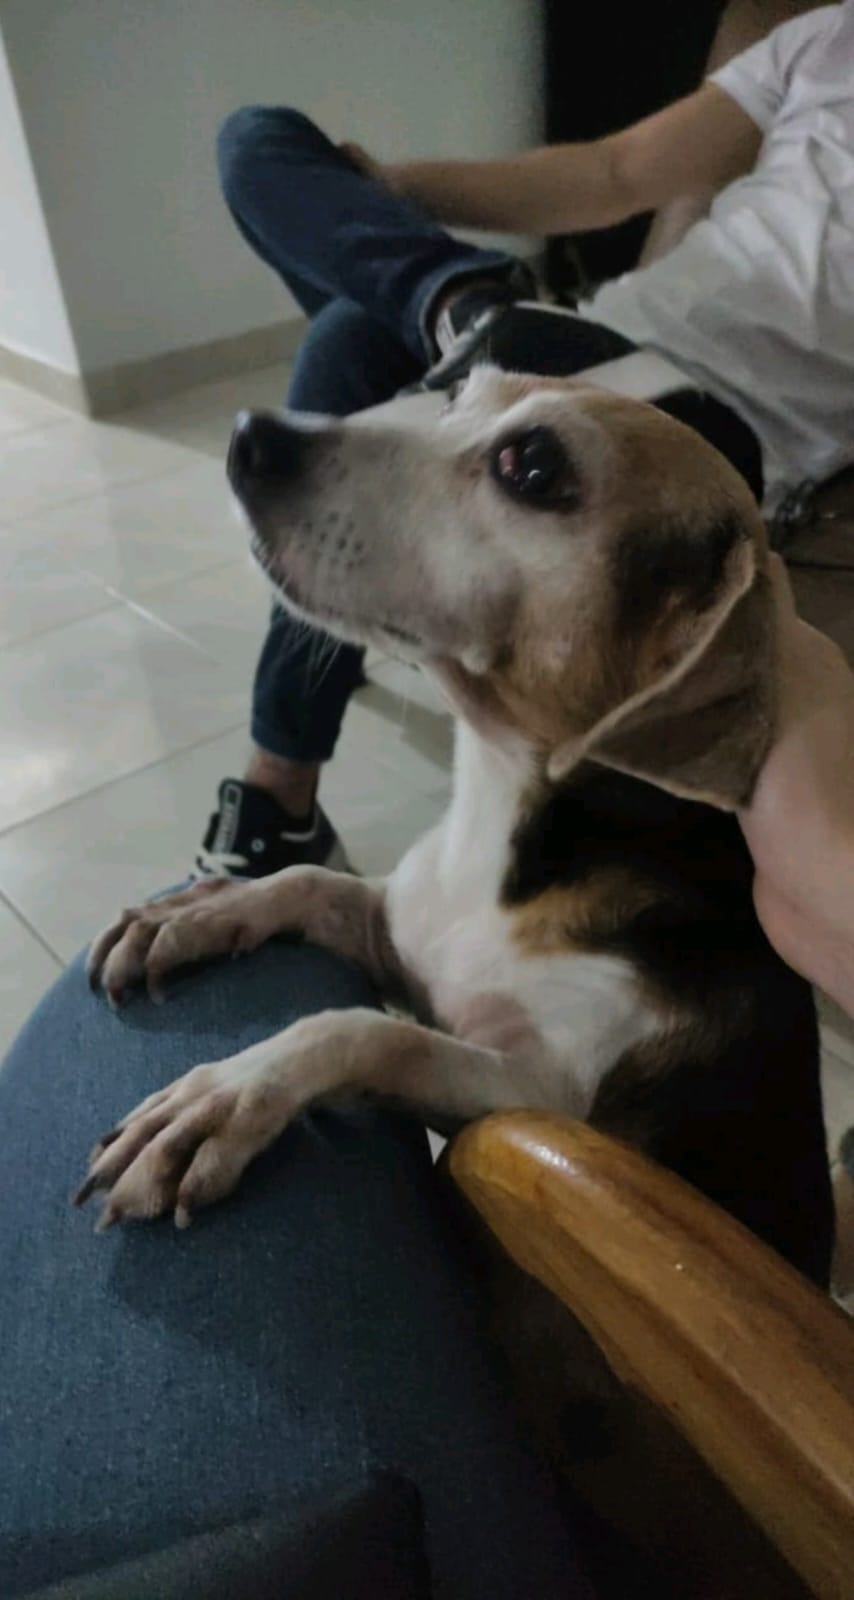
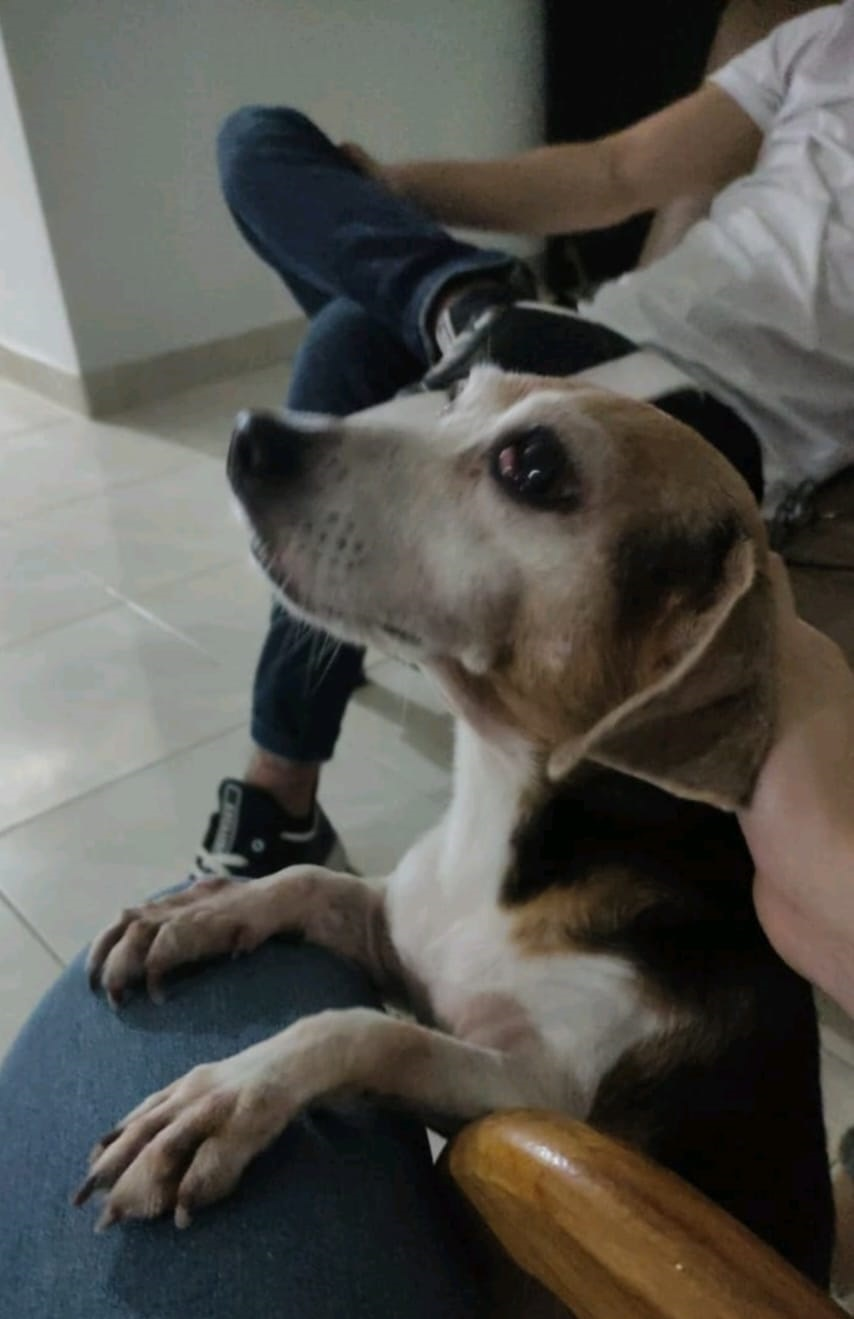
thrid_week_behins

diff --git a/html y css/css/task_1/port_styles.css b/html y css/css/task_1/port_styles.css
@@ -65,9 +65,8 @@ p {
     justify-content: center;
 }
 .bar {
-    width: 100%;
+    width: auto;
     height: 60px;
-    max-width: 1200px;
     margin: 0;
     display: flex;
     align-items: center;
@@ -120,15 +119,16 @@ section .myself:active {
 
 #projects{
     height: 20%;
-    background-color: #c96100;
-
     box-shadow: 0px 0px 20px rgba(0, 0, 0, 0.5);
     display: grid;
     grid-template-areas:'projects projects projects'
                         'tituprof tituprof titupre'
                         'professional professional personal';
     grid-template-rows: 12% 12% auto;
+    grid-template-columns: 30% 30% 40%;
     gap: .001rem;
+    justify-content: space-around;
+    margin: 0 10%;
     /* flex-wrap: wrap; */
 }
 
@@ -136,37 +136,44 @@ section .myself:active {
     grid-area: projects;
     color: #fff6c0;
     font-size: 20px;
-    position: relative;
-    background-image: url(../image/paisaje.jpg);
+    text-align: center;
+    background-image: url(../image/paisaje\ amarillo.jpg);
     background-position: center;
     background-size: cover;
 }
 
-.tituprof {
+.tituporf {
+    background-color: #c96100;
     grid-area: tituprof;
     text-align: center;
+    color: #fff6c0;
 }
 
 .professional{
-    background-color: rgb(0, 0, 0);
+    background-color: rgba(235, 167, 21, 0.11);
     grid-area: professional;
     display: flex;
     padding: 0 .05rem;
 }
 
 .studies{
-    background-color: rgba(255, 115, 0, 0.274);
+    background-color: rgba(235, 167, 21, 0.11);
+    border-right: 3px solid #ffffffff ;
 }
 
 .titupre{
-    background-color: rgb(21, 46, 46);
+    background-color: #c96100;
     grid-area: titupre;
     text-align: center;
+    border-left: 3px solid #ffffffff;
+    color: #fff6c0;
 }
 
 .personal{
-    background-color: rgb(235, 167, 21);
+    background-color: rgba(235, 167, 21, 0.11);
     grid-area: personal;
+    border-left: 3px solid #ffffffff;
+
 }
 
 #contact{
@@ -180,5 +187,23 @@ section .myself:active {
     display: flex;
     align-items: center;
     justify-content: space-between;
+}
+
+@media (max-width: 640px) {
+    #projects {
+        margin: 0;
+    } 
+    
+    .professional{
+        display: flex;
+        flex-direction: column;
+    }
+    .studies {
+    background-color: rgba(235, 167, 21, 0.11);
+    border-bottom: 3px solid #ffffffff ;
+    border-right: none;
+    border-top: 3px solid #ffffffff ;
+    
+}
 }
 /* https://www.youtube.com/watch?v=GdrbE-s5DgQ&t=484s */

diff --git a/html y css/html/task_1/contact_me.html b/html y css/html/task_1/contact_me.html
@@ -19,18 +19,18 @@
     
     <main>
         <section id="data">
-            <aside>
-                <p>Lorem ipsum dolor sit amet consectetur adipisicing elit. Non provident, numquam sunt facilis molestiae sed culpa deleniti voluptate explicabo debitis! Natus fugiat aspernatur doloremque sapiente vitae a minima ad blanditiis?</p>
-            </aside>
-            <form class="inputs"> 
-                        <input class="boxes" type="text" placeholder="Enter your name" name="name" required>
-                        <input class="boxes" type="text" placeholder="Enter your lastname" name="lastname" required>
-                        <input class="boxes" type="email" placeholder="Example@email.com" name="email" required>
-                        <input class="boxes" type="number" placeholder="Cellphone" name="number" >
-                        <label class="bd boxes" for="briht">Enter your date of birth</label>
-                        <input class="boxes" type="date" id="briht">
-                        <button class="send" type="submit"><i class="fa-solid fa-cloud-arrow-up"></i></button> 
-            </form>
+                <aside>
+                    <p>Lorem ipsum dolor sit amet consecteturs adipisicing elit. Non provident, numquaxm sunt facilis molestiae sed culpa deleniti voluptate explicabo debitis! Natus fugiat aspernatur doloremque sapiente vitae a minima ad blanditiis?</p>
+                </aside>
+                <form class="inputs"> 
+                            <input class="boxes" tabindex="0" type="text" placeholder="Enter your name" name="name" required>
+                            <input class="boxes" tabindex="0" type="text" placeholder="Enter your lastname" name="lastname" required>
+                            <input class="boxes" tabindex="0" type="email" placeholder="Example@email.com" name="email" required>
+                            <input class="boxes" tabindex="0" type="number" placeholder="Cellphone" name="number" >
+                            <label class="bd boxes" for="briht">Enter your date of birth</label>
+                            <input class="boxes" tabindex="0" type="date" id="briht">
+                            <button class="send" type="submit"><i class="fa-solid fa-cloud-arrow-up"></i></button> 
+                </form>
         </section>
     </main>
 </body>

diff --git a/html y css/html/task_1/pets.html b/html y css/html/task_1/pets.html
@@ -15,37 +15,36 @@
     </header>
 
     <main>
-        <nav>
-            <p>Currently, I do not have any pets, but I have had two.</p>
-        </nav>
-
+        <!-- <figure tabindex="0" id=""> -->
         <section class="img-pets">
-            <figure>
-                <img class="samy" src="../../css/image/Samy.jpg" alt="Samy">
-                <article>Samy (The destroyer)</article>
+            <figure id="sammy" tabindex="0">
+                <img class="pets" src="../../css/image/Samy.jpg" alt="Samy">
+                <article>Sammy (The destroyer)</article>
             </figure>
 
-            <figure>
-                <img class="lola" src="../../css/image/Lola.jpeg" alt="Lola">
+            <figure id="lola">
+                <img class="pets" src="../../css/image/Lola.jpeg" alt="Lola">
                 <article>Lola (The cute - and vacuum cleaner)</article>
             </figure>
 
-            <figure>
-                <img class="mery" src="../../css/image/Mery.jpeg" alt="Mey">
+            <figure id="mery">
+                <img class="pets" src="../../css/image/Mery.jpeg" alt="Mey">
                 <article>Mery (The jealous cat, only lets men touch her)</article>
             </figure>
 
-            <figure>
-                <img class="vacky" src="../../css/image/Vacky.jpeg" alt="Vacky">
-                <article>Vacky (The sleeper.)</article>
+            <figure id="vacky">
+                <img  class="pets" src="../../css/image/Vacky.jpeg" alt="Vacky">
+                <article>Vacky (The empowered car, take your bed and your pillow.)</article>
             </figure>
 
-            <figure>
-                <img class="lulu" src="../../css/image/Lulu.jpeg" alt="Lulu">
+            <figure id="lulu">
+                <img  class="pets" src="../../css/image/Lulu.jpeg" alt="Lulu">
+                <article>Lulu (The sleeper, it's noticeable)</article>
             </figure>
 
-            <figure>
-                <img class="messi" src="../../css/image/Messi.jpeg" alt="Messi">
+            <figure id="messy">
+                <img class="pets" src="../../css/image/Messi.jpeg" alt="Messi">
+                <article>Messi (The lover)</article>
             </figure>
         </section>
 

diff --git a/html y css/css/task_1/cont.css b/html y css/css/task_1/cont.css
@@ -6,6 +6,10 @@
     /* outline: 1px solid red; */
 }
 
+:root{
+--primary-color: rgb(238, 178, 12)
+}
+
 body{
     background-color: rgb(33, 34, 44);
 }
@@ -15,14 +19,6 @@ header{
     background-color: aliceblue;
     align-items: center;
     gap: 3rem;
-}
-
-aside {
-    color: aliceblue;
-    background-color: rgba(0, 0, 0, 0.329);
-    backdrop-filter: blur(4px);
-    padding: 19.5%;
-    border-radius: 10px 0 0 10px;
 }
 
 .video_fondo{
@@ -36,24 +32,32 @@ aside {
     object-fit: cover;
 }
 
+#data {
+    display: grid;
+    grid-template-columns: 1fr 2fr;
+    margin: 5% 25% 0 25%;
+    align-items: stretch;
+
+}
+aside {
+    color: aliceblue;
+    background-color: rgba(0, 0, 0, 0.329);
+    backdrop-filter: blur(4px);
+    padding: 19.5%;
+    border-radius: 10px 0 0 10px;
+    /* width: 70%; */
+}
+
 .inputs{
     /* text-align: center; */
     background-color: antiquewhite;
     border-radius: 0 10px 10px 0;
     display: flex;  
     flex-direction: column;
+    justify-content: center;    
     padding: 8% 0;
+    
 }
-
-#data {
-    display: grid;
-    grid-template-columns: 40% 60%;
-    margin: 5% 25% 0 25%;
-    justify-content: space-between;
-    align-items: center;
-    /* flex-wrap: wrap; */
-}
-
 
 .send {
     padding: 1% 10%;
@@ -79,6 +83,10 @@ aside {
     margin: 1% 10%;
 }
 
+.boxes:focus{
+    outline: 2px solid var(--primary-color) ;
+}
+
 .bd {
     /* font-family: Tahoma, Geneva, verdana; */
     font-weight: bolder;
@@ -86,6 +94,10 @@ aside {
     border: none;
 }
 
-@media(min-width: 1920px){
-    .bar
+@media(max-width: 660px){
+    #data {display: grid;
+        grid-template-columns: 1fr;
+        margin: 0;
+    }
+    
 }

diff --git a/html y css/css/task_1/pets.css b/html y css/css/task_1/pets.css
@@ -16,6 +16,8 @@ body {
     background-position: center;
 }
 header {
+    height: 3rem;
+    width: auto;
     display: flex;
     background-color: aliceblue;
     align-items: center;
@@ -25,40 +27,46 @@ header {
 .img-pets {
     display: grid;
     grid-template-columns: 1fr 1fr 1fr;
-    justify-content: space-between;
+    /* justify-content: space-between; */
     text-align: center;
-    gap: 2rem;    
-    /* padding-left: 10%; */
+    gap: 2rem;
 }
 
 figure article {
     color: #fff6c0;
     font-size: 17px;
     font-weight: bolder;
-    text-align: center;  
+    /* text-align: center; */
 }
 
-
-
-
-.samy, .lola, .mery, .vacky, .lulu, .messi {
+.pets{
     width: 300px;     
     height: 300px; 
     object-fit: cover;
+    padding-bottom: 3rem;
+    background-color: #e2e0e0;
+    border: 5px solid #e2e0e0;
 }
 
-
-h2 {
-    margin-bottom: 8rem;
-    color: #fff6c0;
+.pets:hover {
+    transition: .5s;
+    scale: 1.1;
+    cursor: pointer;
 }
 
-h3{
-    color: #fff6c0;
+figure {
+    border: 1px solid #e2e0e0;
+    background-color: rgba(0, 0, 0, 0.39);
+    /* padding: 10px; */
+}
+
+:modal {
     
 }
 
-p {
-    margin-bottom: 0.5rem;
-    justify-content: center;
-}
+/* figure:focus {
+    transform: scale(1.6);
+    align-items: center;
+    background-color: transparent;
+    border: none;
+} */

diff --git a/html y css/html/task_1/portafolios.html b/html y css/html/task_1/portafolios.html
@@ -62,16 +62,6 @@
                 <p>Currently, I am studying software development; I consider this to be a crucial component of the era we live in. Likewise, in the medium term, I see myself growing professionally as a data analyst, strengthening my knowledge and achieving stability that will eventually allow me to pursue my own ventures. My goal is to build and lead a team composed of colleagues and peers who can contribute their expertise and support to shared projects.</p>
             </article>
 
-        </section>
-        <section id="adcontact">
-            <h2>Contact</h2>
-            <article class="data">
-                <h3>personal emal:</h3>
-                <p>juvalu4321@gmail.com</p>
-                <h3>personal number:</h3>
-                <p>4202030022</p>
-            </article>
-        </section>
     </main>
 </body>
 </html>

diff --git a/html y css/javascript/script.js b/html y css/javascript/script.js
@@ -1,0 +1,16 @@
+const imgpets =
+document.getElementById("img-pets");
+
+const sammy =
+document.getElementById("sammy");
+
+
+imgpets.addEventListener("click", () => {
+
+})
+
+
+
+
+
+// https://developer.mozilla.org/en-US/docs/Web/CSS/Reference/Selectors/:modal
